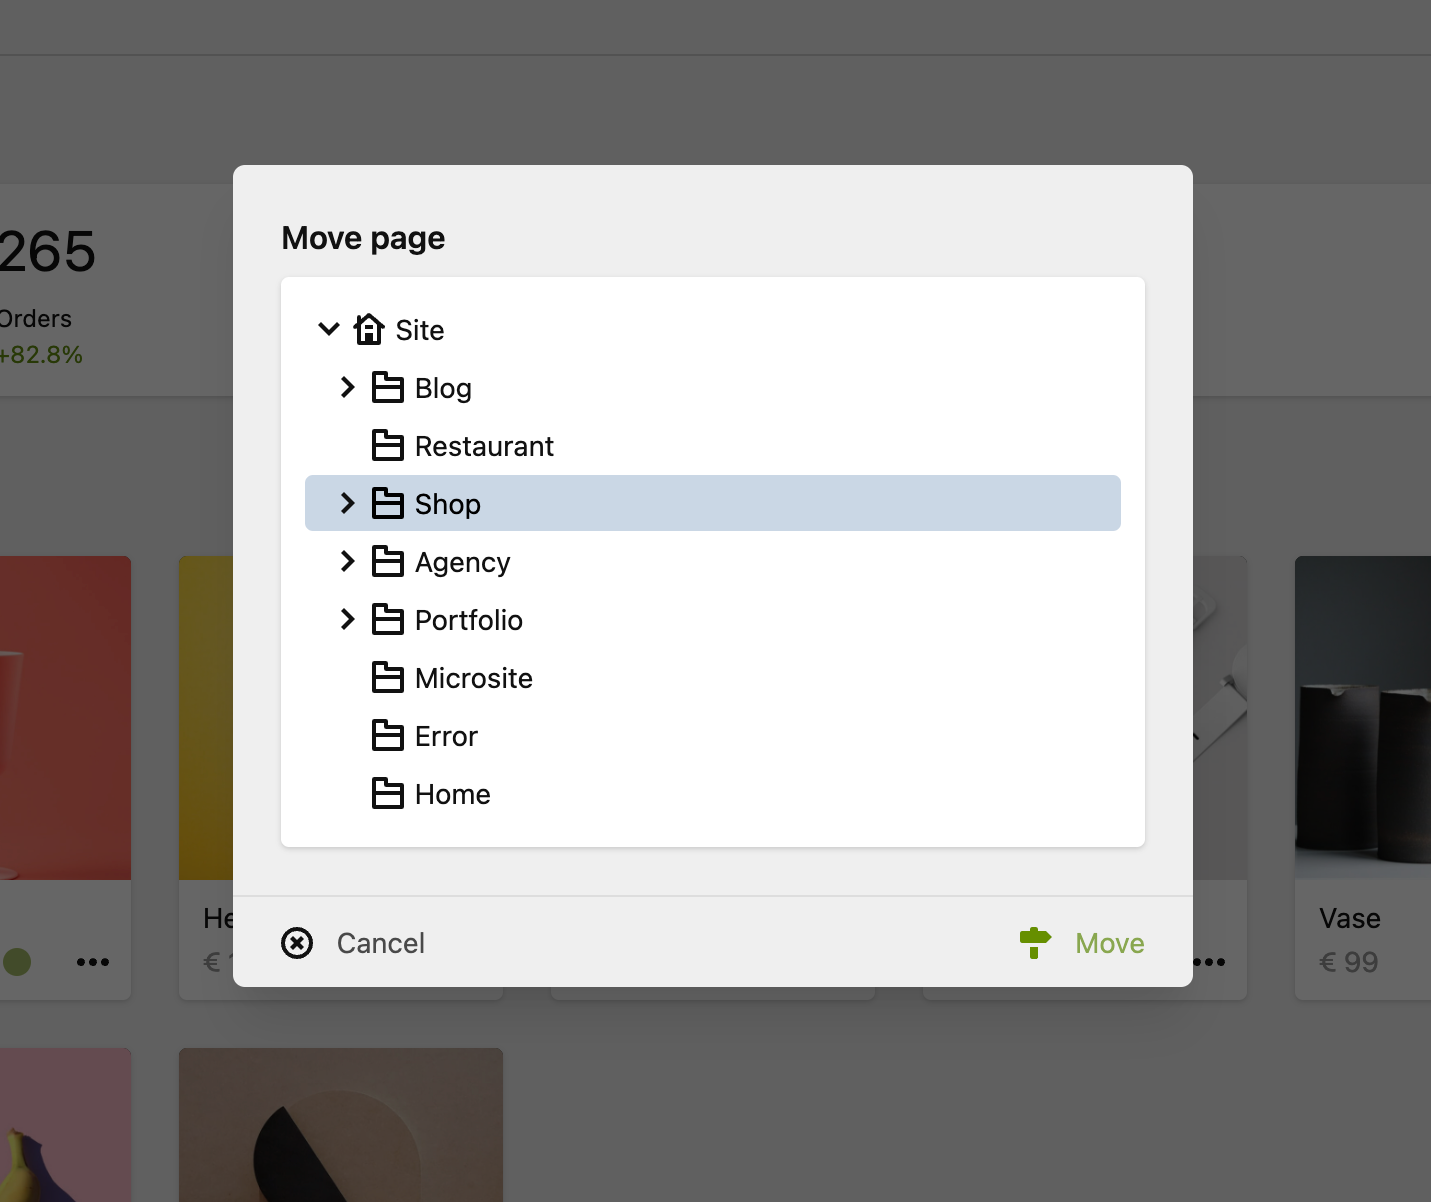
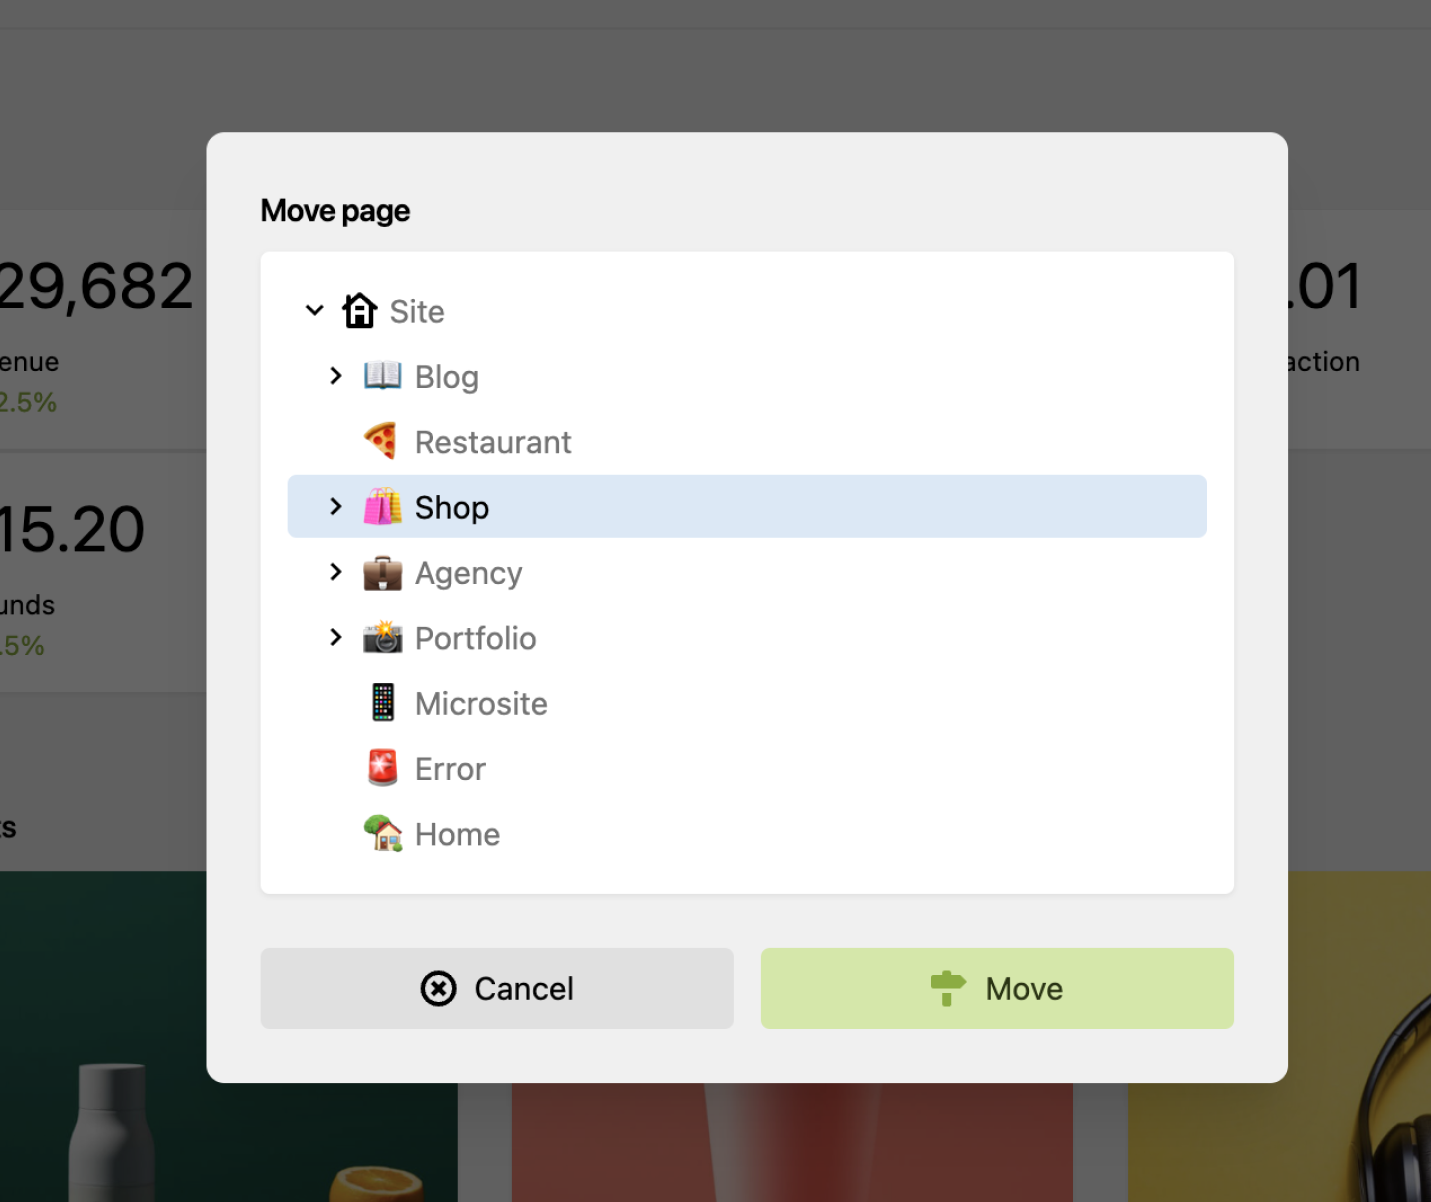
New design

diff --git a/content/releases/4-0/0_design/snippet.php b/content/releases/4-0/0_design/snippet.php
@@ -1,0 +1,10 @@
+<div class="columns" style="--columns: 1">
+
+	<figure class="release-box bg-light shadow-xl">
+		<?= $section->image('design.png')->resize(1400) ?>
+	</figure>
+
+	<div class="release-text-box">
+		<?php snippet('templates/release-40/teaser', ['section' => $section]) ?>
+	</div>
+</div>
